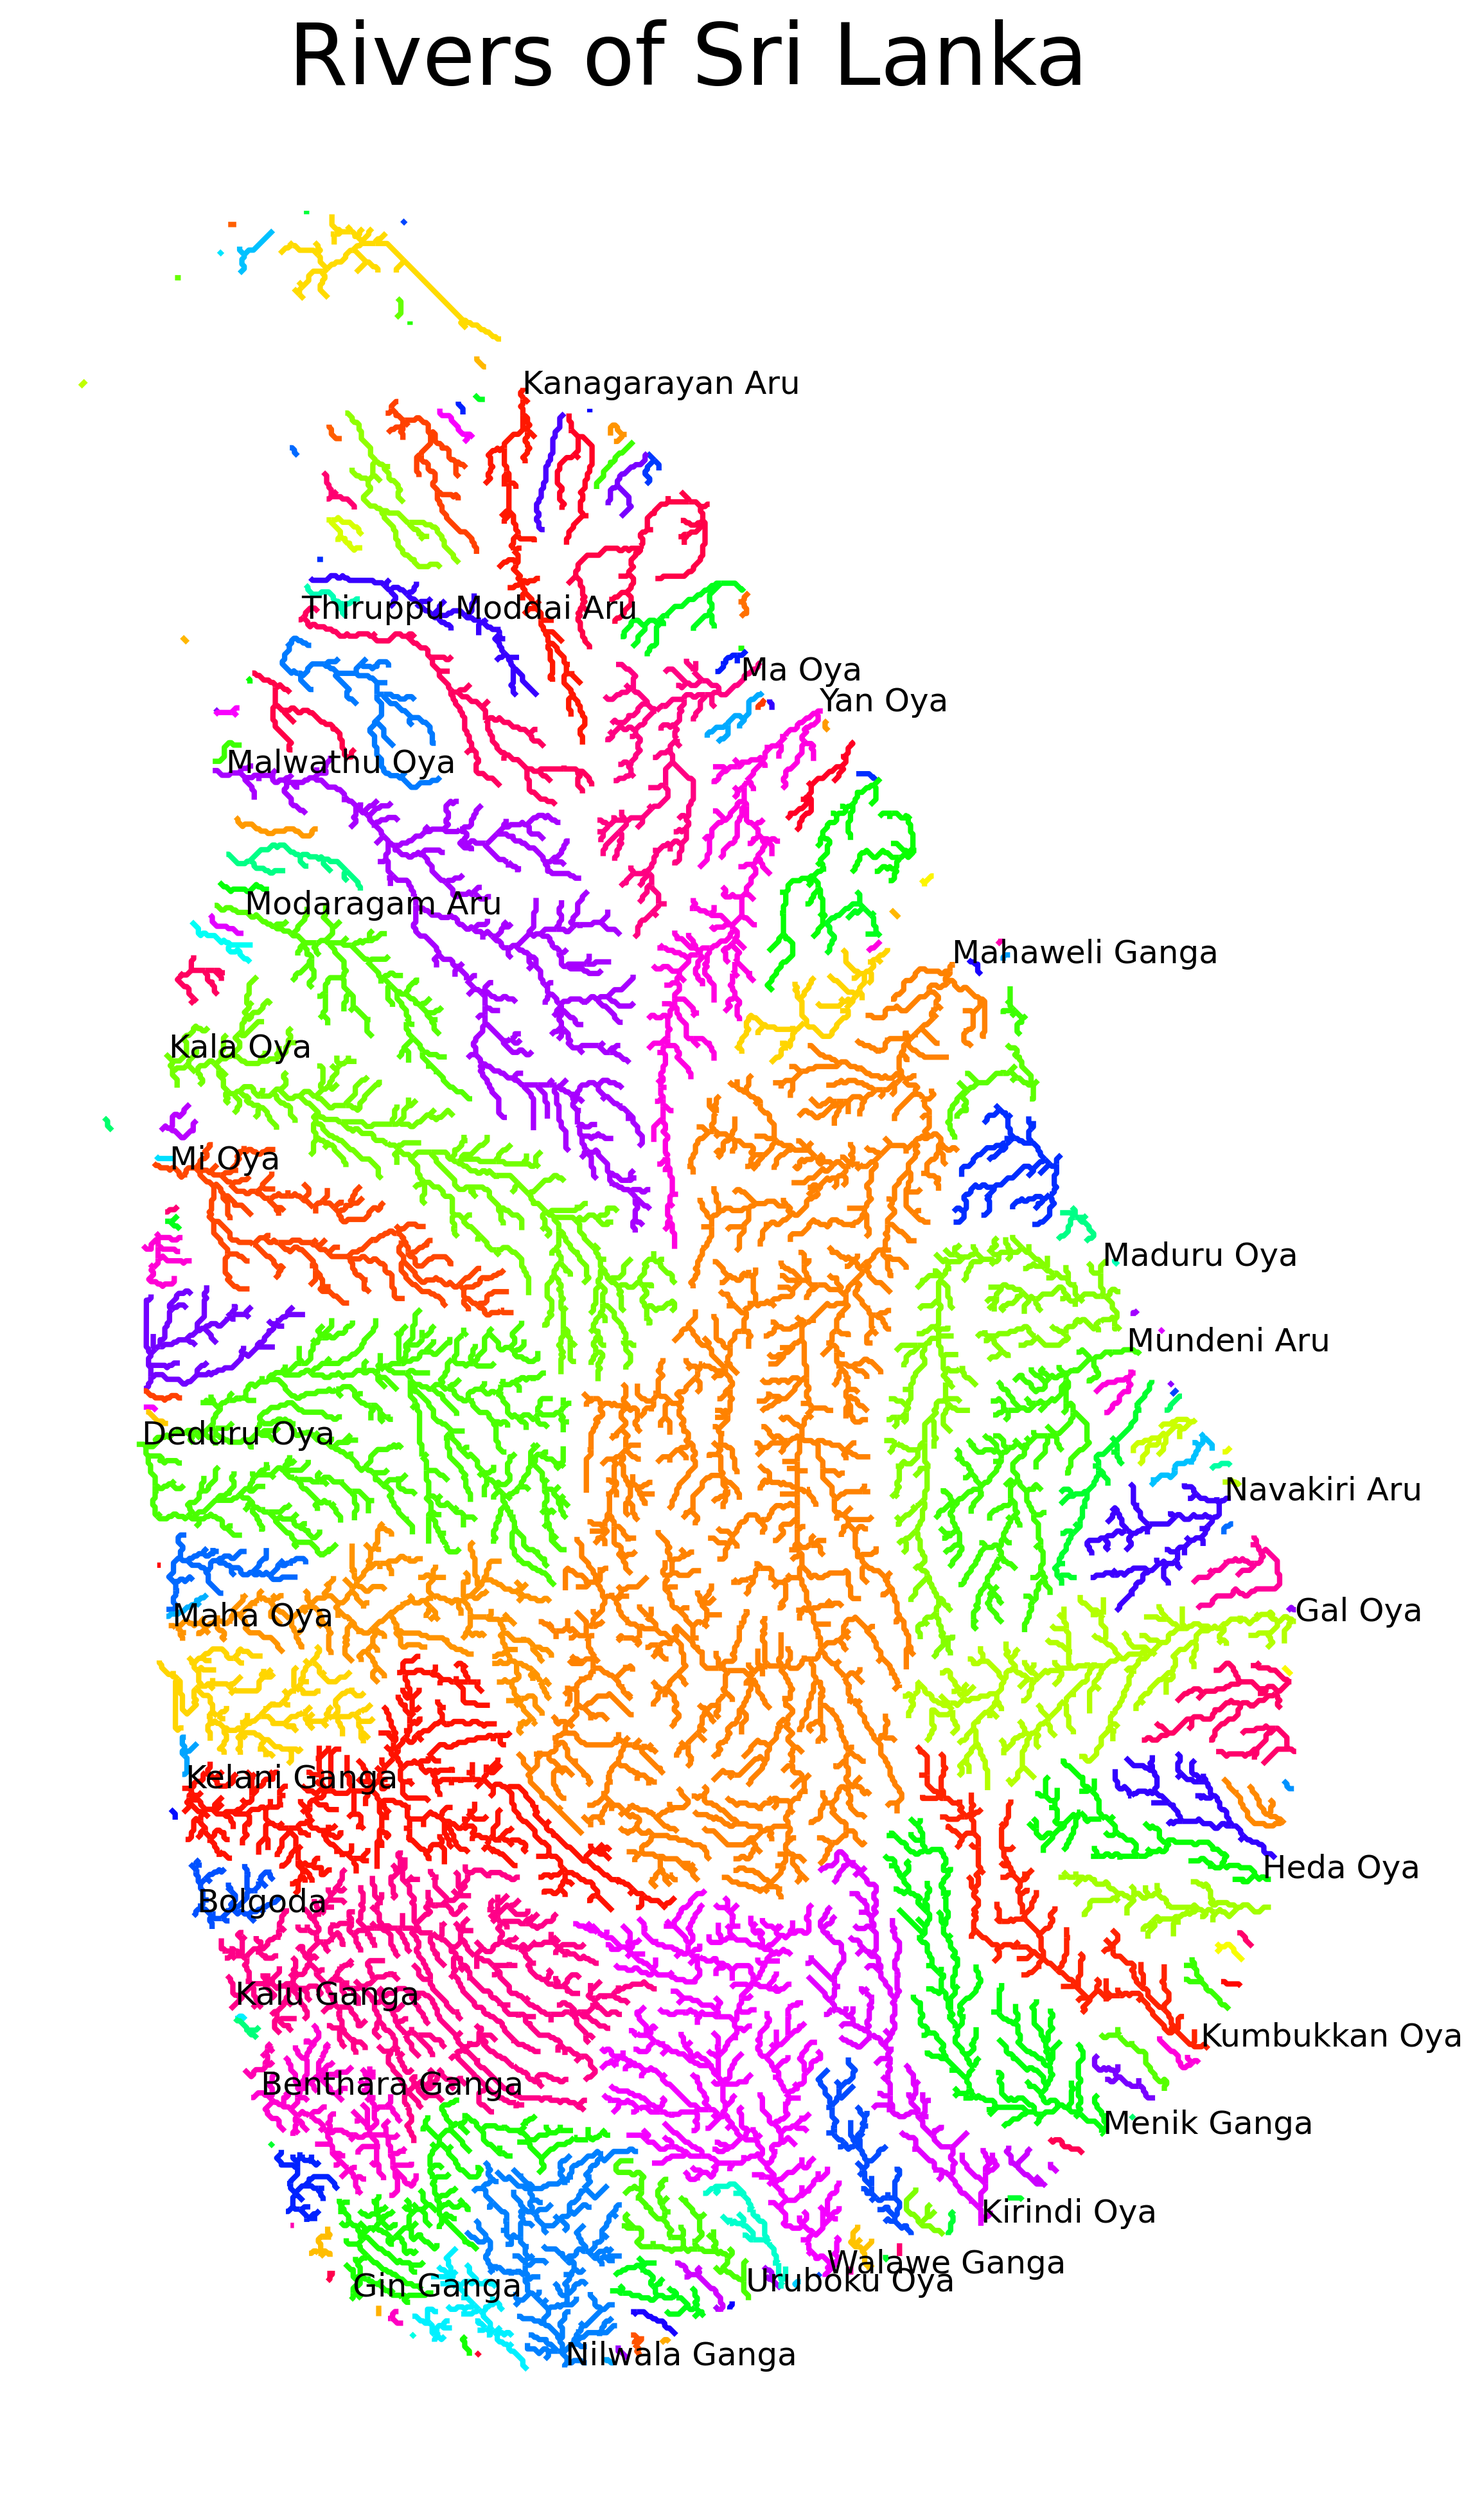
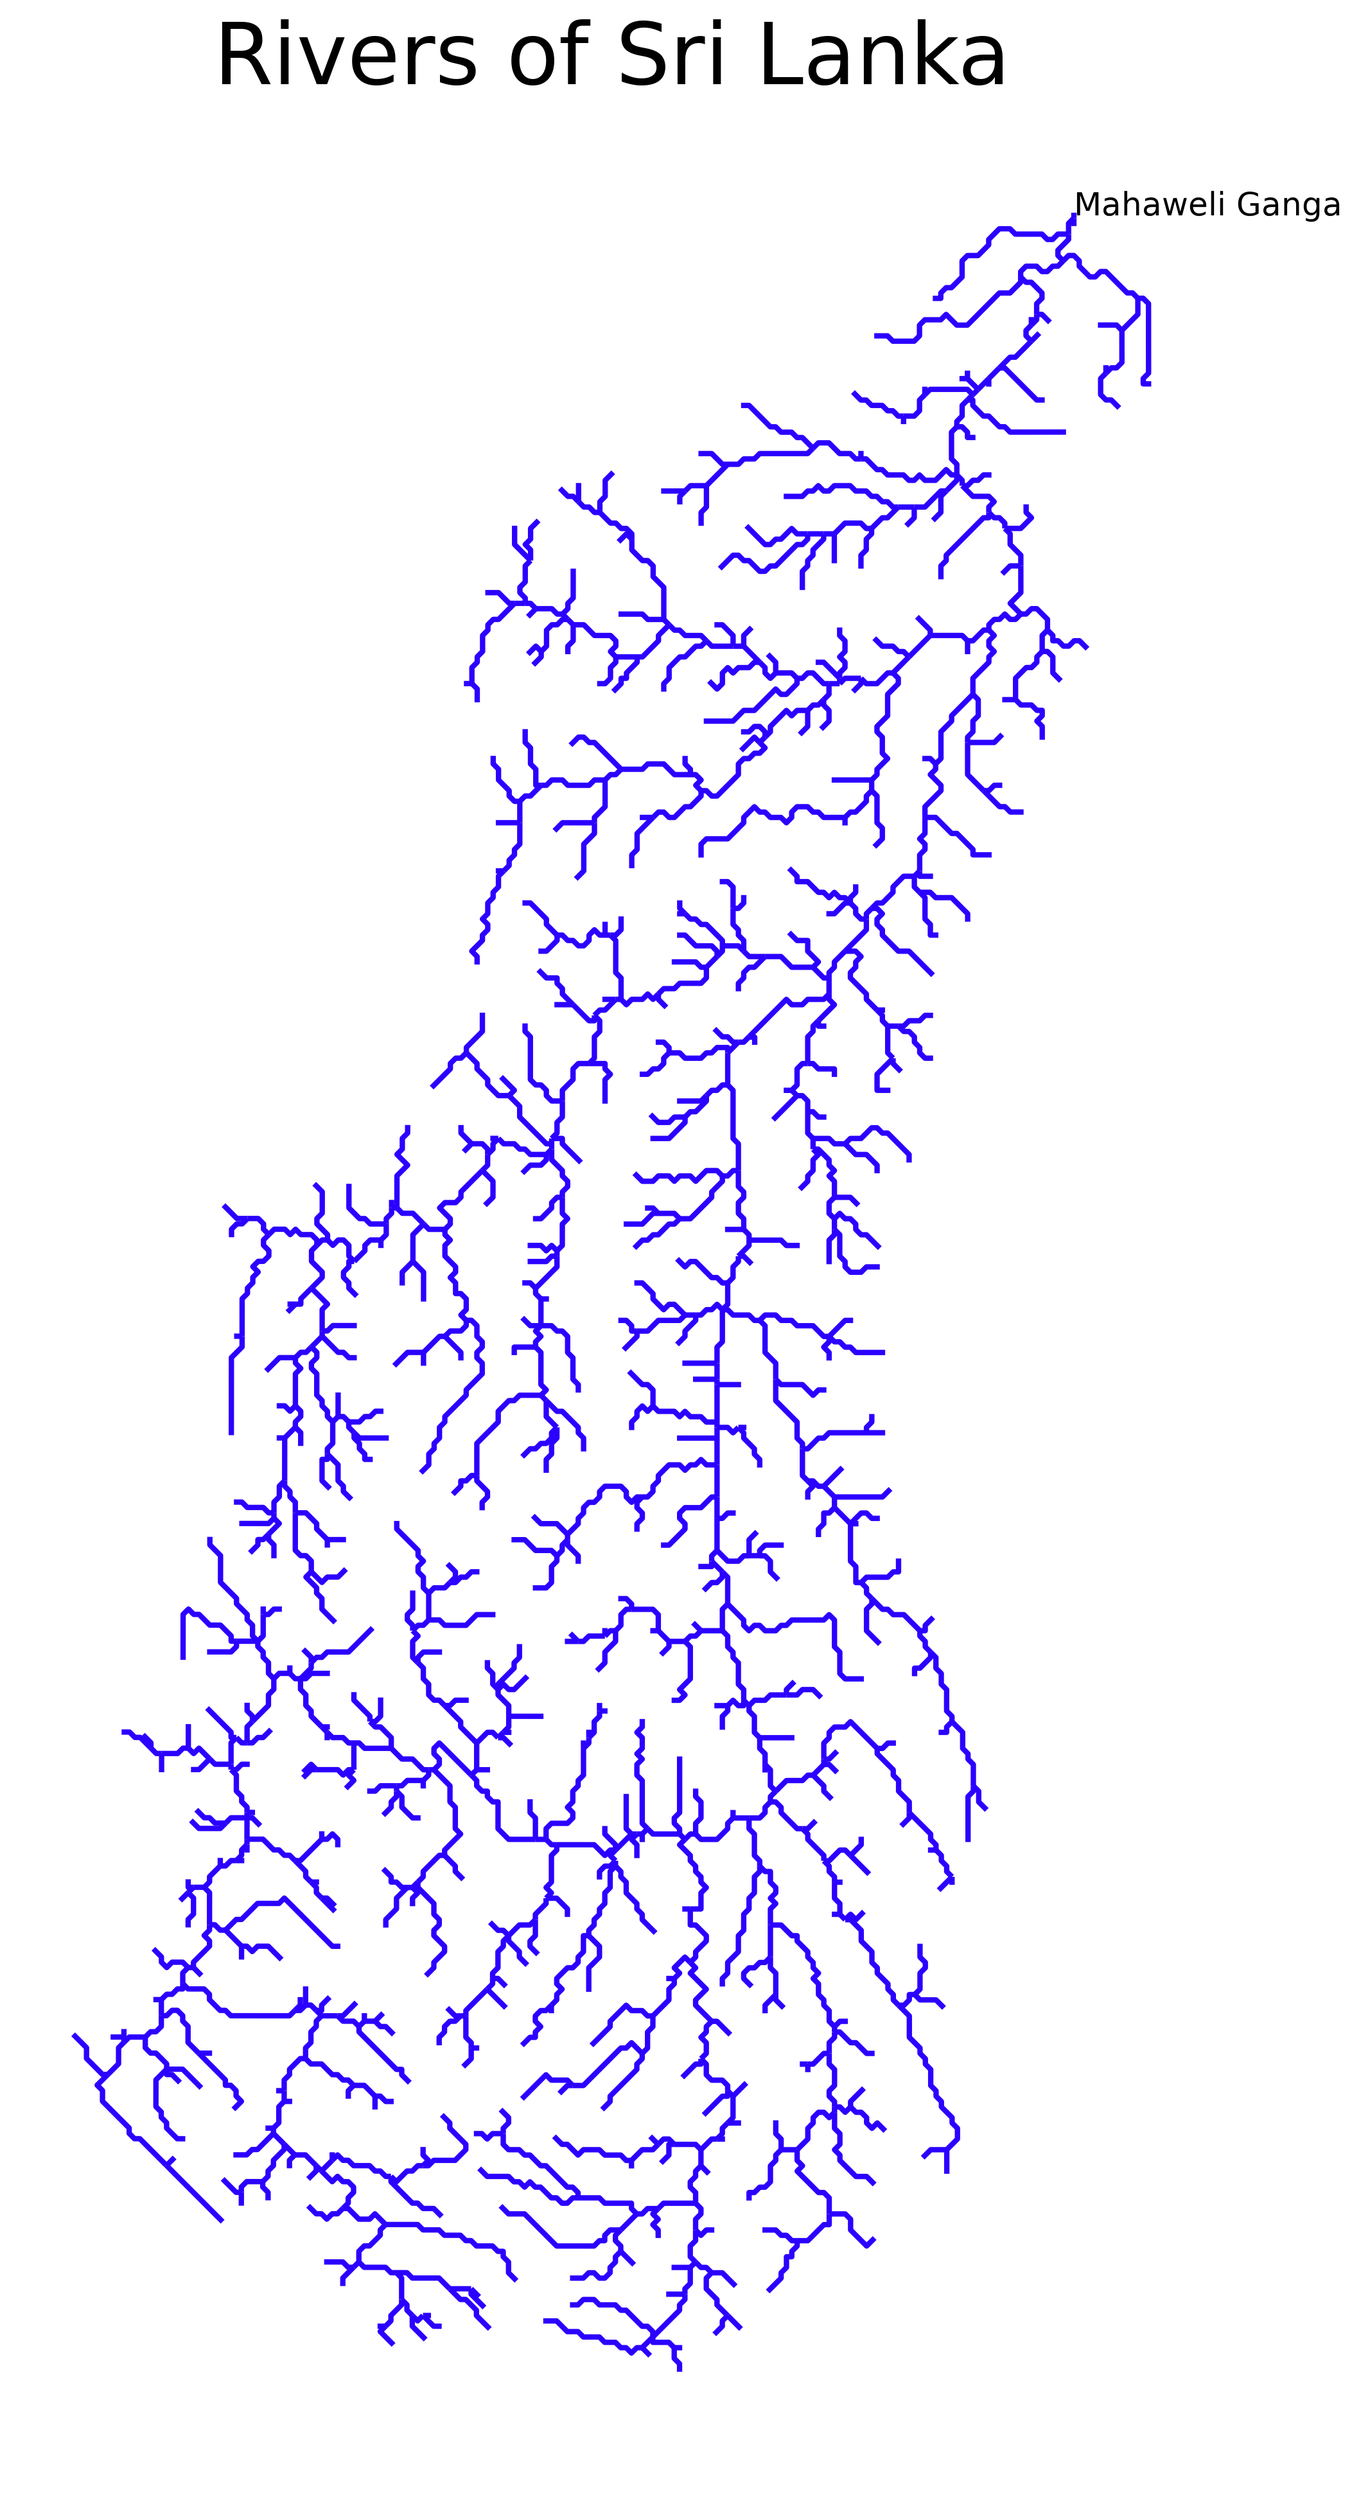
Refactor render_rivers function to accept selected river name and update color mapping logic

diff --git a/workflows/render_rivers.py b/workflows/render_rivers.py
@@ -3,8 +3,8 @@ Render rivers from HydroRIVERS GeoDB
 """
 
 import json
-import os
 import random
+import sys
 import zipfile
 from pathlib import Path
 
@@ -67,7 +67,7 @@ def filter_sri_lanka(gdf):
     return gdf_lk
 
 
-def render_rivers(gdf, output_path=None):
+def render_rivers(gdf, output_path, selected_river_name):
     """
     Render the rivers on a map using colors proportional to their lengths,
     highlight the longest river in the darkest blue, and annotate with river
@@ -96,9 +96,11 @@ def render_rivers(gdf, output_path=None):
 
     # Assign random colors to each river using the 'hsv' colormap
     unique_rivers = gdf["MAIN_RIV"].unique()
-    # Corrected colormap assignment and split into multiple lines for readability
+    # Corrected colormap assignment and split into multiple lines for
+    # readability
+    cmap = plt.colormaps["hsv"]
     color_map = {
-        river: plt.cm.get_cmap("hsv")(random.random())
+        river: cmap(random.random())
         for river in unique_rivers
     }
     gdf["color"] = gdf["MAIN_RIV"].map(color_map)
@@ -107,18 +109,21 @@ def render_rivers(gdf, output_path=None):
     sorted_groups = gdf.groupby("MAIN_RIV")
 
     # Plot rivers with their length-proportional colors
-    for river, group in sorted_groups:
+    for river_id, group in sorted_groups:
+        river_name = riv_id_to_name.get(str(river_id), None)
+        if selected_river_name and river_name != selected_river_name:
+            continue  # Skip rivers that don't match the selected name
+        
         group_color = group["color"].iloc[0]
         group.plot(
             ax=ax,
             linewidth=2,
             color=group_color,
             alpha=1,
-            label=str(river),
+            label=str(river_id),
         )
 
         # Annotate the map with river names (if available) at the mouth
-        river_name = riv_id_to_name.get(str(river), None)
         if river_name:
             # Find the row where NEXT_DOWN = 0 (mouth of the river)
             mouth_row = group[group["NEXT_DOWN"] == 0]
@@ -155,7 +160,7 @@ def render_rivers(gdf, output_path=None):
     print("Done!")
 
 
-def main():
+def main(selected_river_name):
     """Main execution"""
     data_path = get_data_path()
     zip_path = data_path / "HydroRIVERS_v10_as.gdb.zip"
@@ -178,8 +183,9 @@ def main():
 
     # Render
     output_path = data_path.parent / "lk_rivers_map.png"
-    render_rivers(gdf_lk, output_path)
+    render_rivers(gdf_lk, output_path, selected_river_name)
 
 
 if __name__ == "__main__":
-    main()
+    selected_river_name = sys.argv[1] if len(sys.argv) > 1 else None
+    main(selected_river_name)
